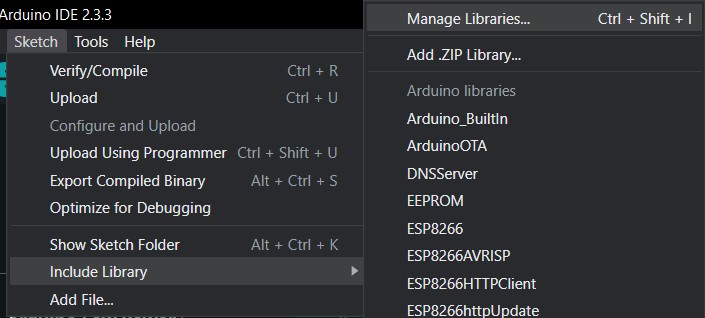
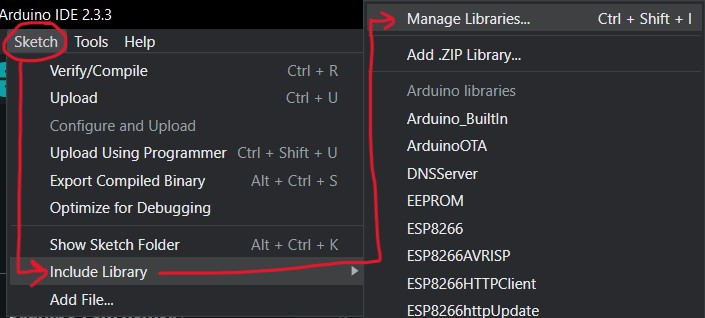
Adjust images step 1 and add step 2

Changed region(s): [[0.0, 0.0566, 0.1248, 0.9057], [0.2184, 0.566, 0.5617, 0.8774], [0.4993, 0.0283, 0.5617, 0.566]]

diff --git a/nodeMCU-Ventilator-Manual.md b/nodeMCU-Ventilator-Manual.md
@@ -8,7 +8,7 @@ We connect the NodeMCU to WiFi to request the current temperature of a specific 
 In this manual I will tell you how to build this. 
 
 ### What do you need?
-* NodeMCU (ESP8266 of ESP32)
+* NodeMCU Arduino Board (ESP32)
 * WiFi-verbinding
 * API-key from [OpenWeatherMap](https://openweathermap.org/)
 * Key from [IFTTT](https://ifttt.com/) (Sending automatic notifications)
@@ -30,13 +30,42 @@ Once you come back to the OpenWeatherMap website you should see that your accoun
 ![Succes mail](image/SuccesMail.jpg)
 
 ### API Key
+Note: API keys are unique to the user and shouldn’t be shared with anyone.
+
 To find your API Key go to your account name and click on "My API Keys"
 
 ![To API Key](image/ToAPI.jpg)
 
 ![API Key](image/APIKey.jpg)
 
+### Weather information
+To pull information on weather in your chosen location, enter the following URL:
+
+``` cpp
+http://api.openweathermap.org/data/2.5/weather?q=yourCityName,yourCountryCode&APPID=yourUniqueAPIkey
+```
+Replace yourCityName with the city you want data for, yourCountryCode with the country code for that city, and yourUniqueAPIkey with the unique API key from step 4. For example, the updated API URL for the city Haarlem, Netherlands, would be: 
+
+``` cpp
+http://api.openweathermap.org/data/2.5/weather?q=Haarlem,
+NL&APPID=801d2603e9f2e1c70e042e4f5f6e0---
+```
+Copy your URL into your browser, and the API will return a bunch of information corresponding to your local weather. This is how it looks:
+
+![Weather in the Netherlands](image/Weather.jpg)
+
+You’ll see how to use this information to get specific data like temperature, humidity, pressure, wind speed, etc.
+
 ## Step 2: Install Arduino IDE and libraries
+If you don't yet have Arduino IDE installed, download it [here](https://www.arduino.cc/en/software) and choose the right Operating system for you.
+
+![Add library](image/DownloadArduino.jpg)
+
+You also need to install the Arduino_JSON library. You can install this library in the Arduino IDE Library Manager. Just go to Sketch > Include Library > Manage Libraries and search for "ArduinoJson" by Benoit Blanchon. Download the latest version.
+
+![Add library](image/Library.jpg)
+
+![Add ArduinoJson](image/arduinojson.jpg)
 
 ## Step 3: Connecting to OpenWeatherMap
 

diff --git a/nodeMCU-Telegram-Manual.md b/nodeMCU-Telegram-Manual.md
@@ -6,7 +6,7 @@ This guide shows how to control the ESP32 or ESP8266 NodeMCU GPIOs from anywhere
 ![Telegram and ESP8266](image/intro.jpg)
 
 ### What do you need?
-* NodeMCU Arduino Board, ESP8266
+* NodeMCU Arduino Board (ESP8266)
 * Arduino IDE
 * WIFI connection
 * Micro USB cable
@@ -47,7 +47,7 @@ To interact with the Telegram bot, we’ll use the Universal Telegram Bot Librar
 ### ArduinoJson
 Go to Sketch > Include Library > Manage Libraries and add “ArduinoJson” Benoit Blanchon. We are using version 5.13.5.
 
-![Library](image/library.jpg)
+![Library](image/Library.jpg)
 ![ArduinoJson](image/ArduinoJson.jpg)
 
 ### Universal Telegram Bot
@@ -59,7 +59,7 @@ Choose for the 1.1.0 version
 ## Step 3: Echobot
 Open 'echobot' via File > Examples > UniversalTelegramBot > ESP8266 > EchoBot
 
-![Library echobot](image/echobot.jpg)
+![Library echobot](image/Echo-bot.jpg)
 
 You may have code like below, the code is correct, but some data and the code about messages are not included.
 
